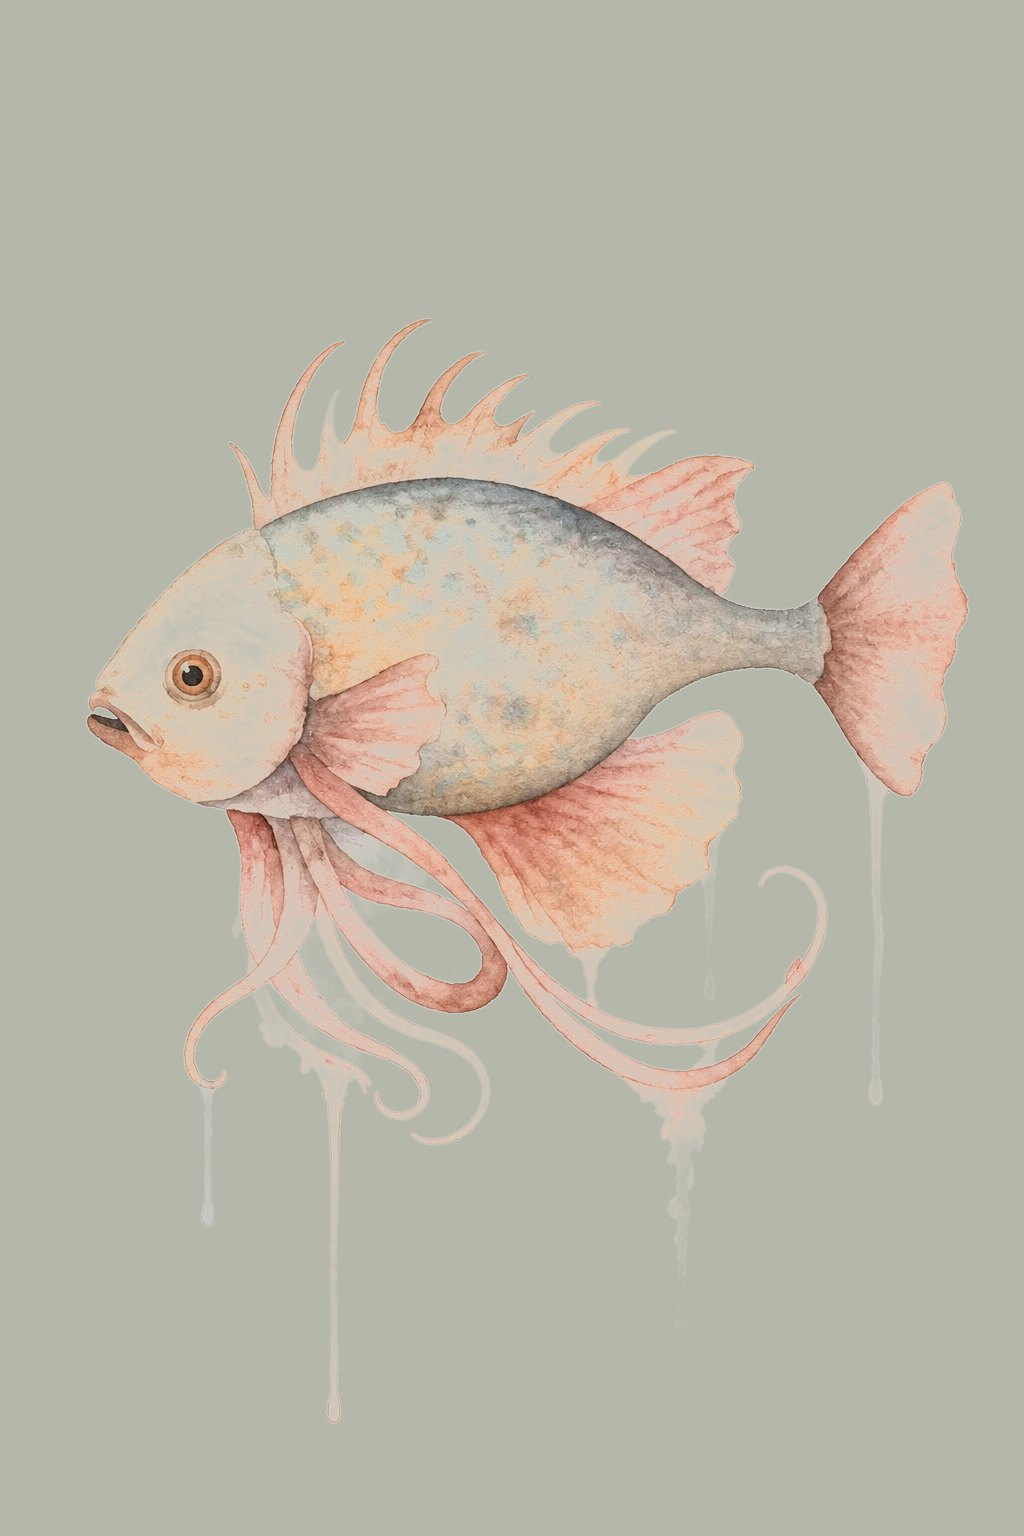
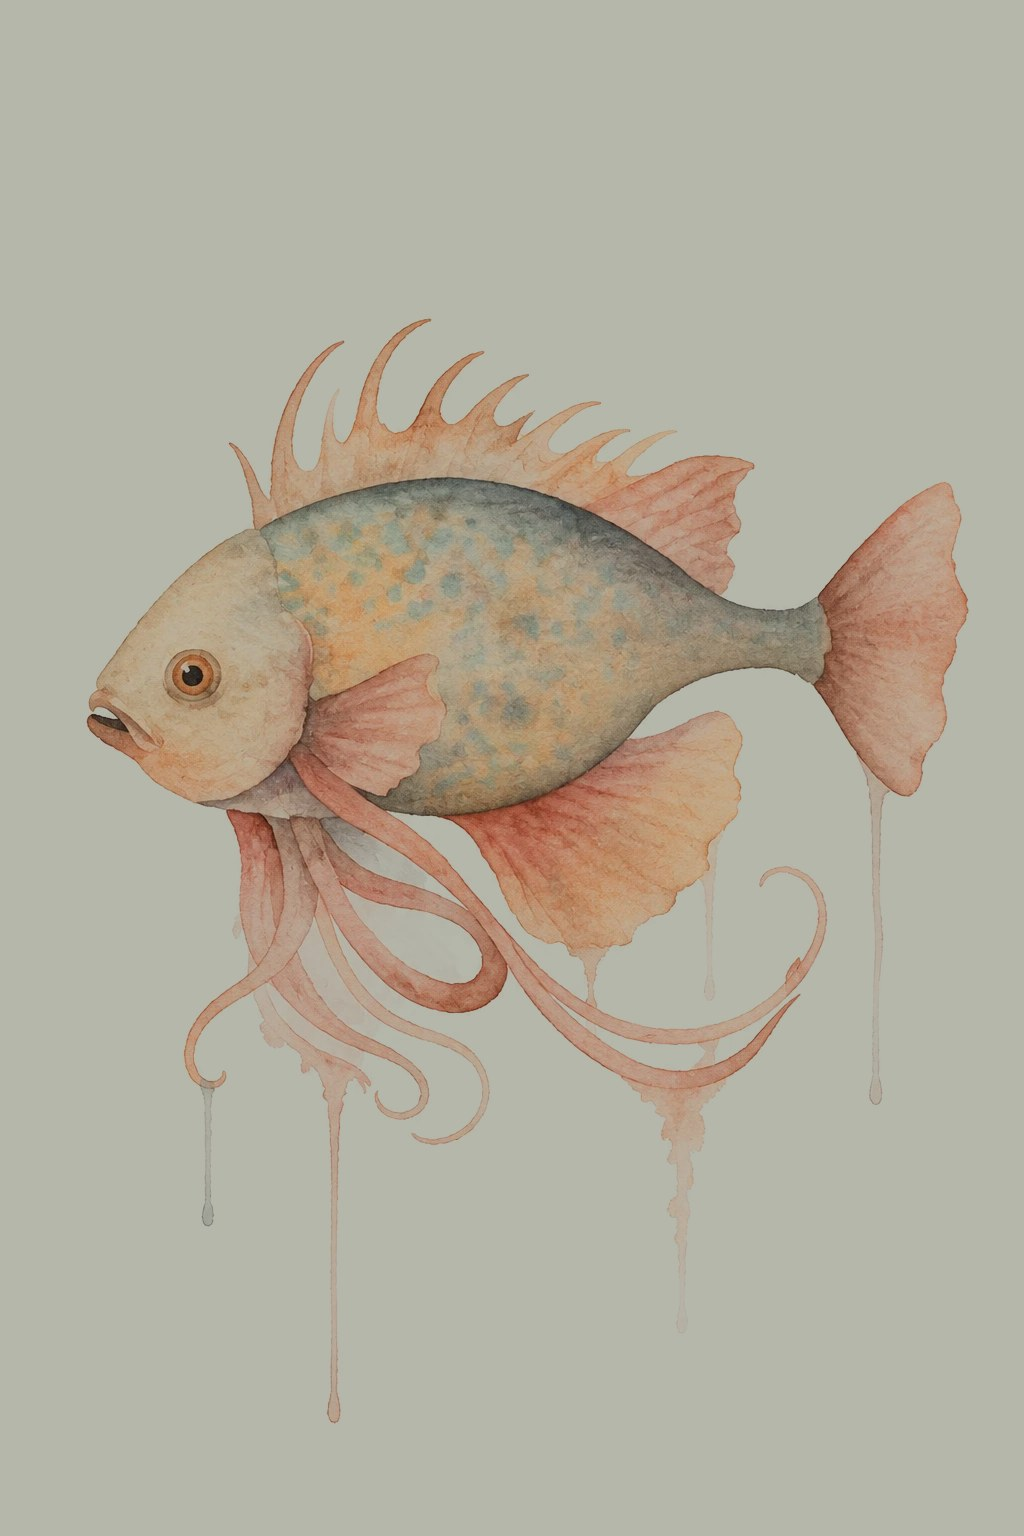
style: los peces con sus tonos de acuarela sobre el verde, sin el papel blanco

Changed region(s): [[0.0625, 0.1875, 0.9688, 0.9375], [0.8438, 0.6875, 0.875, 0.7188], [0.4688, 0.6875, 0.5, 0.7188]]

diff --git a/index.html b/index.html
@@ -117,9 +117,9 @@
           <div class="hero__bg" aria-hidden="true">
             <!-- Tres peces en acuarela. En el ordenador, uno a cada lado mirando hacia
                  el centro; en el movil solo el del centro, detras del texto. -->
-            <img class="hero__fish hero__fish--side" src="assets/images/hero-pez-izquierda.jpg?v=4" alt="" />
-            <img class="hero__fish hero__fish--center" src="assets/images/hero-pez.jpg?v=5" alt="" />
-            <img class="hero__fish hero__fish--side" src="assets/images/hero-pez-derecha.jpg?v=4" alt="" />
+            <img class="hero__fish hero__fish--side" src="assets/images/hero-pez-izquierda.jpg?v=5" alt="" />
+            <img class="hero__fish hero__fish--center" src="assets/images/hero-pez.jpg?v=6" alt="" />
+            <img class="hero__fish hero__fish--side" src="assets/images/hero-pez-derecha.jpg?v=5" alt="" />
           </div>
           <div class="hero__copy">
             <div class="hero__intro">
